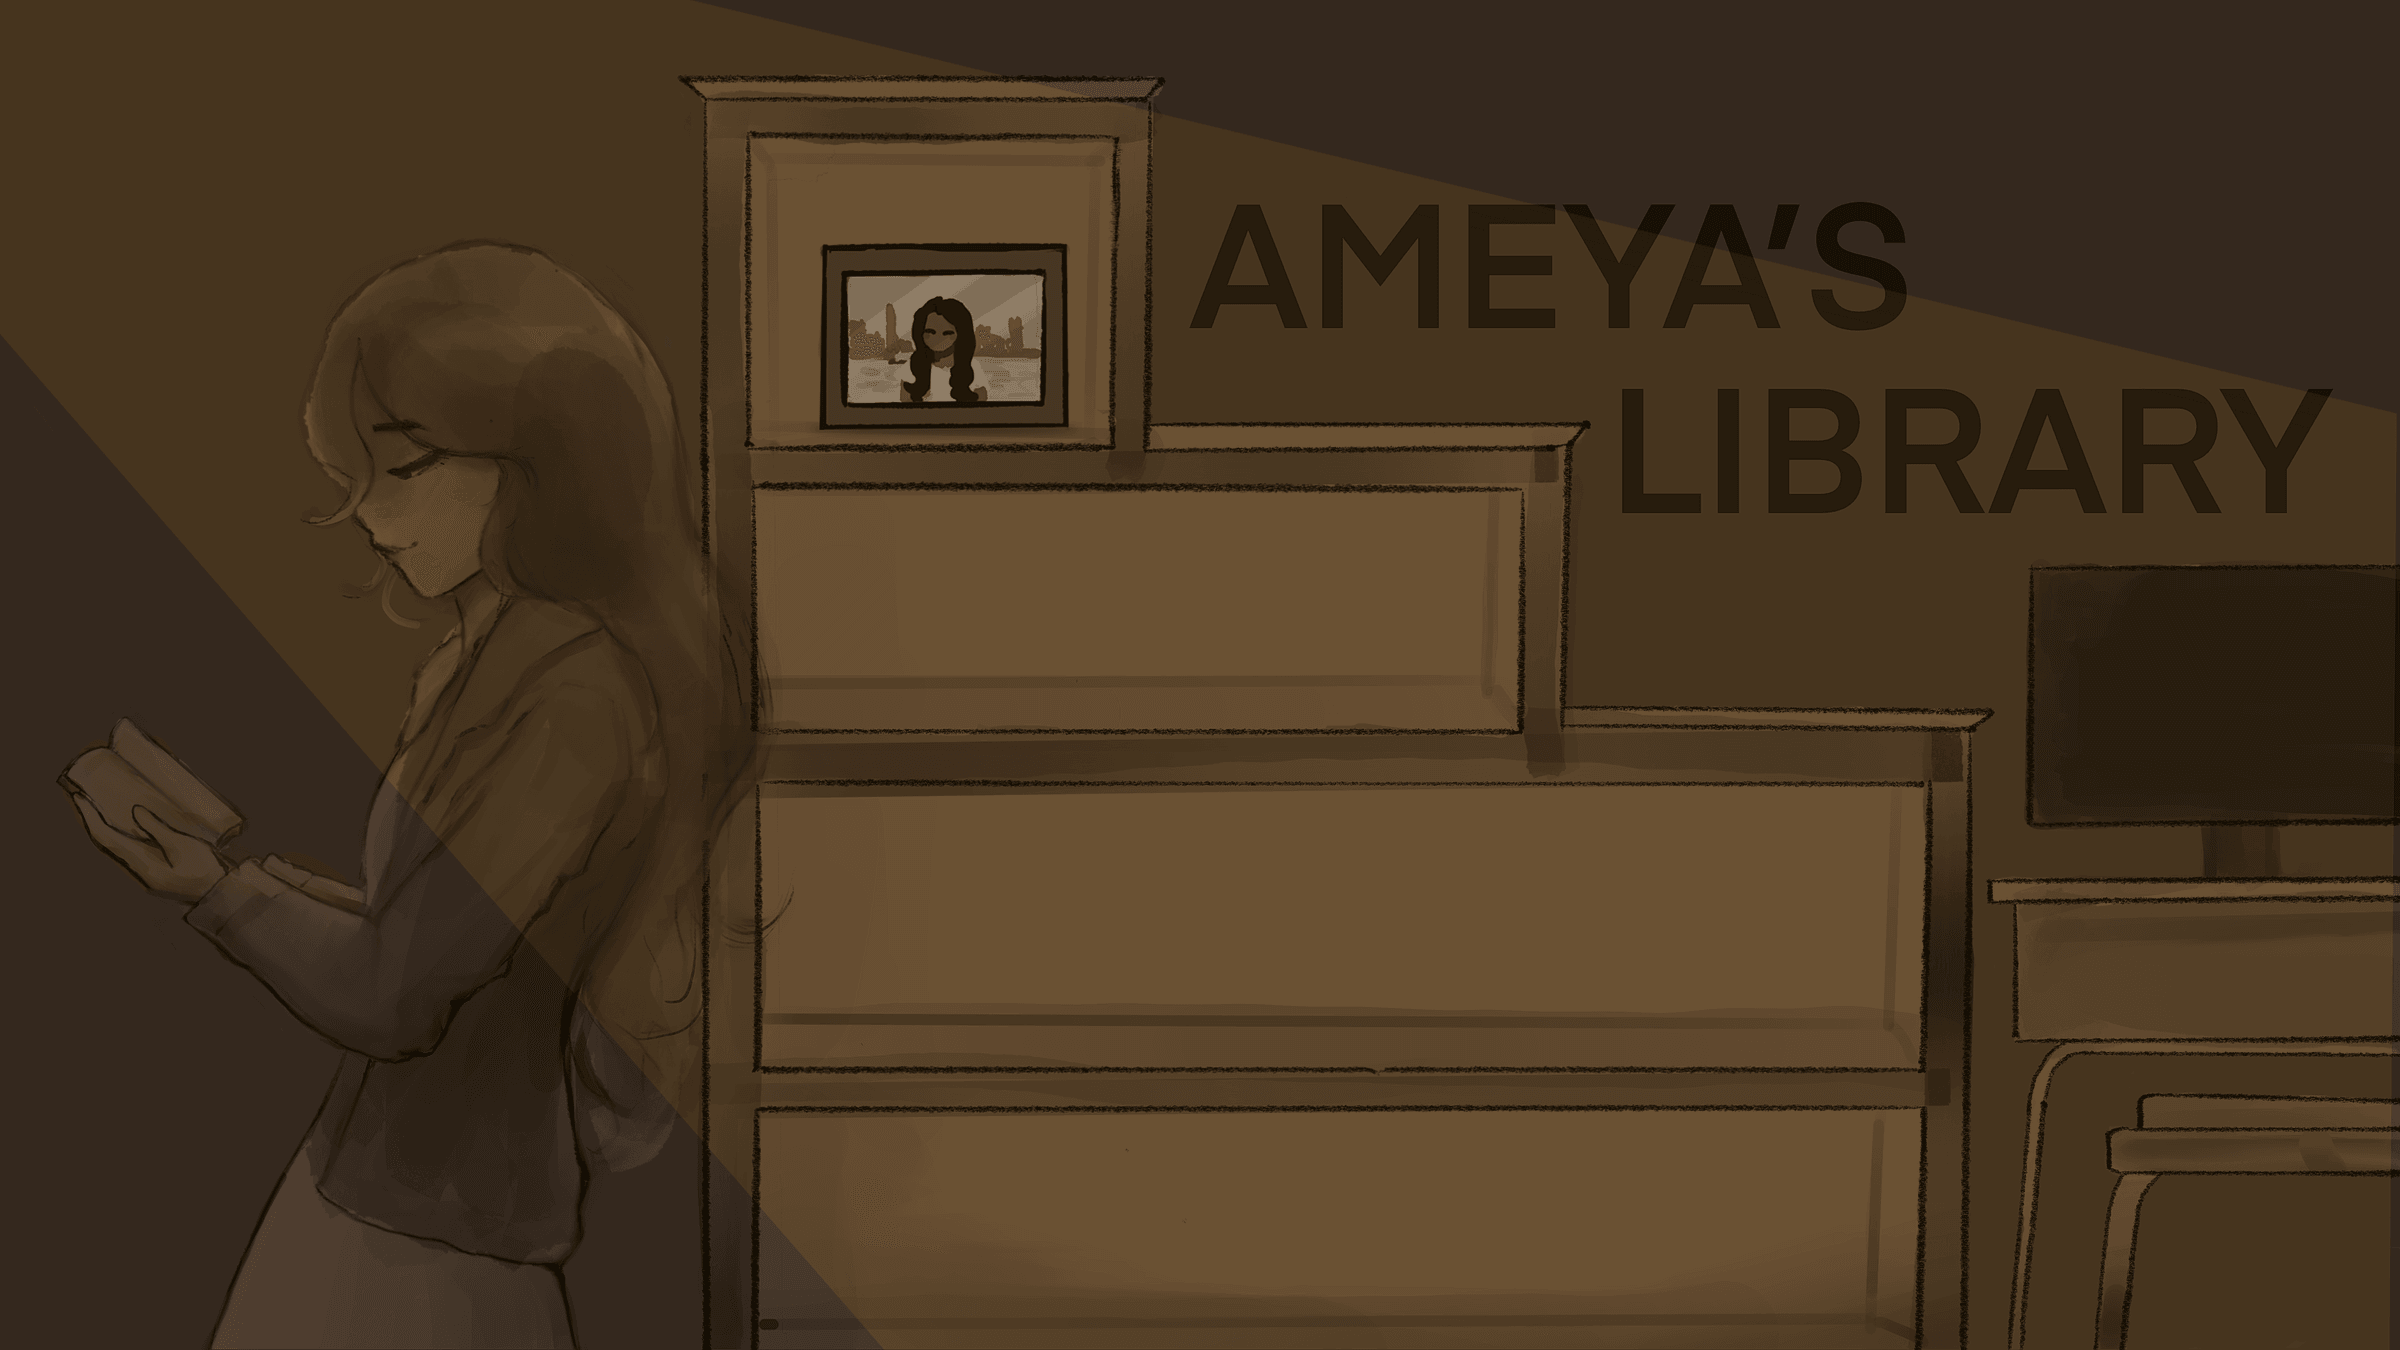
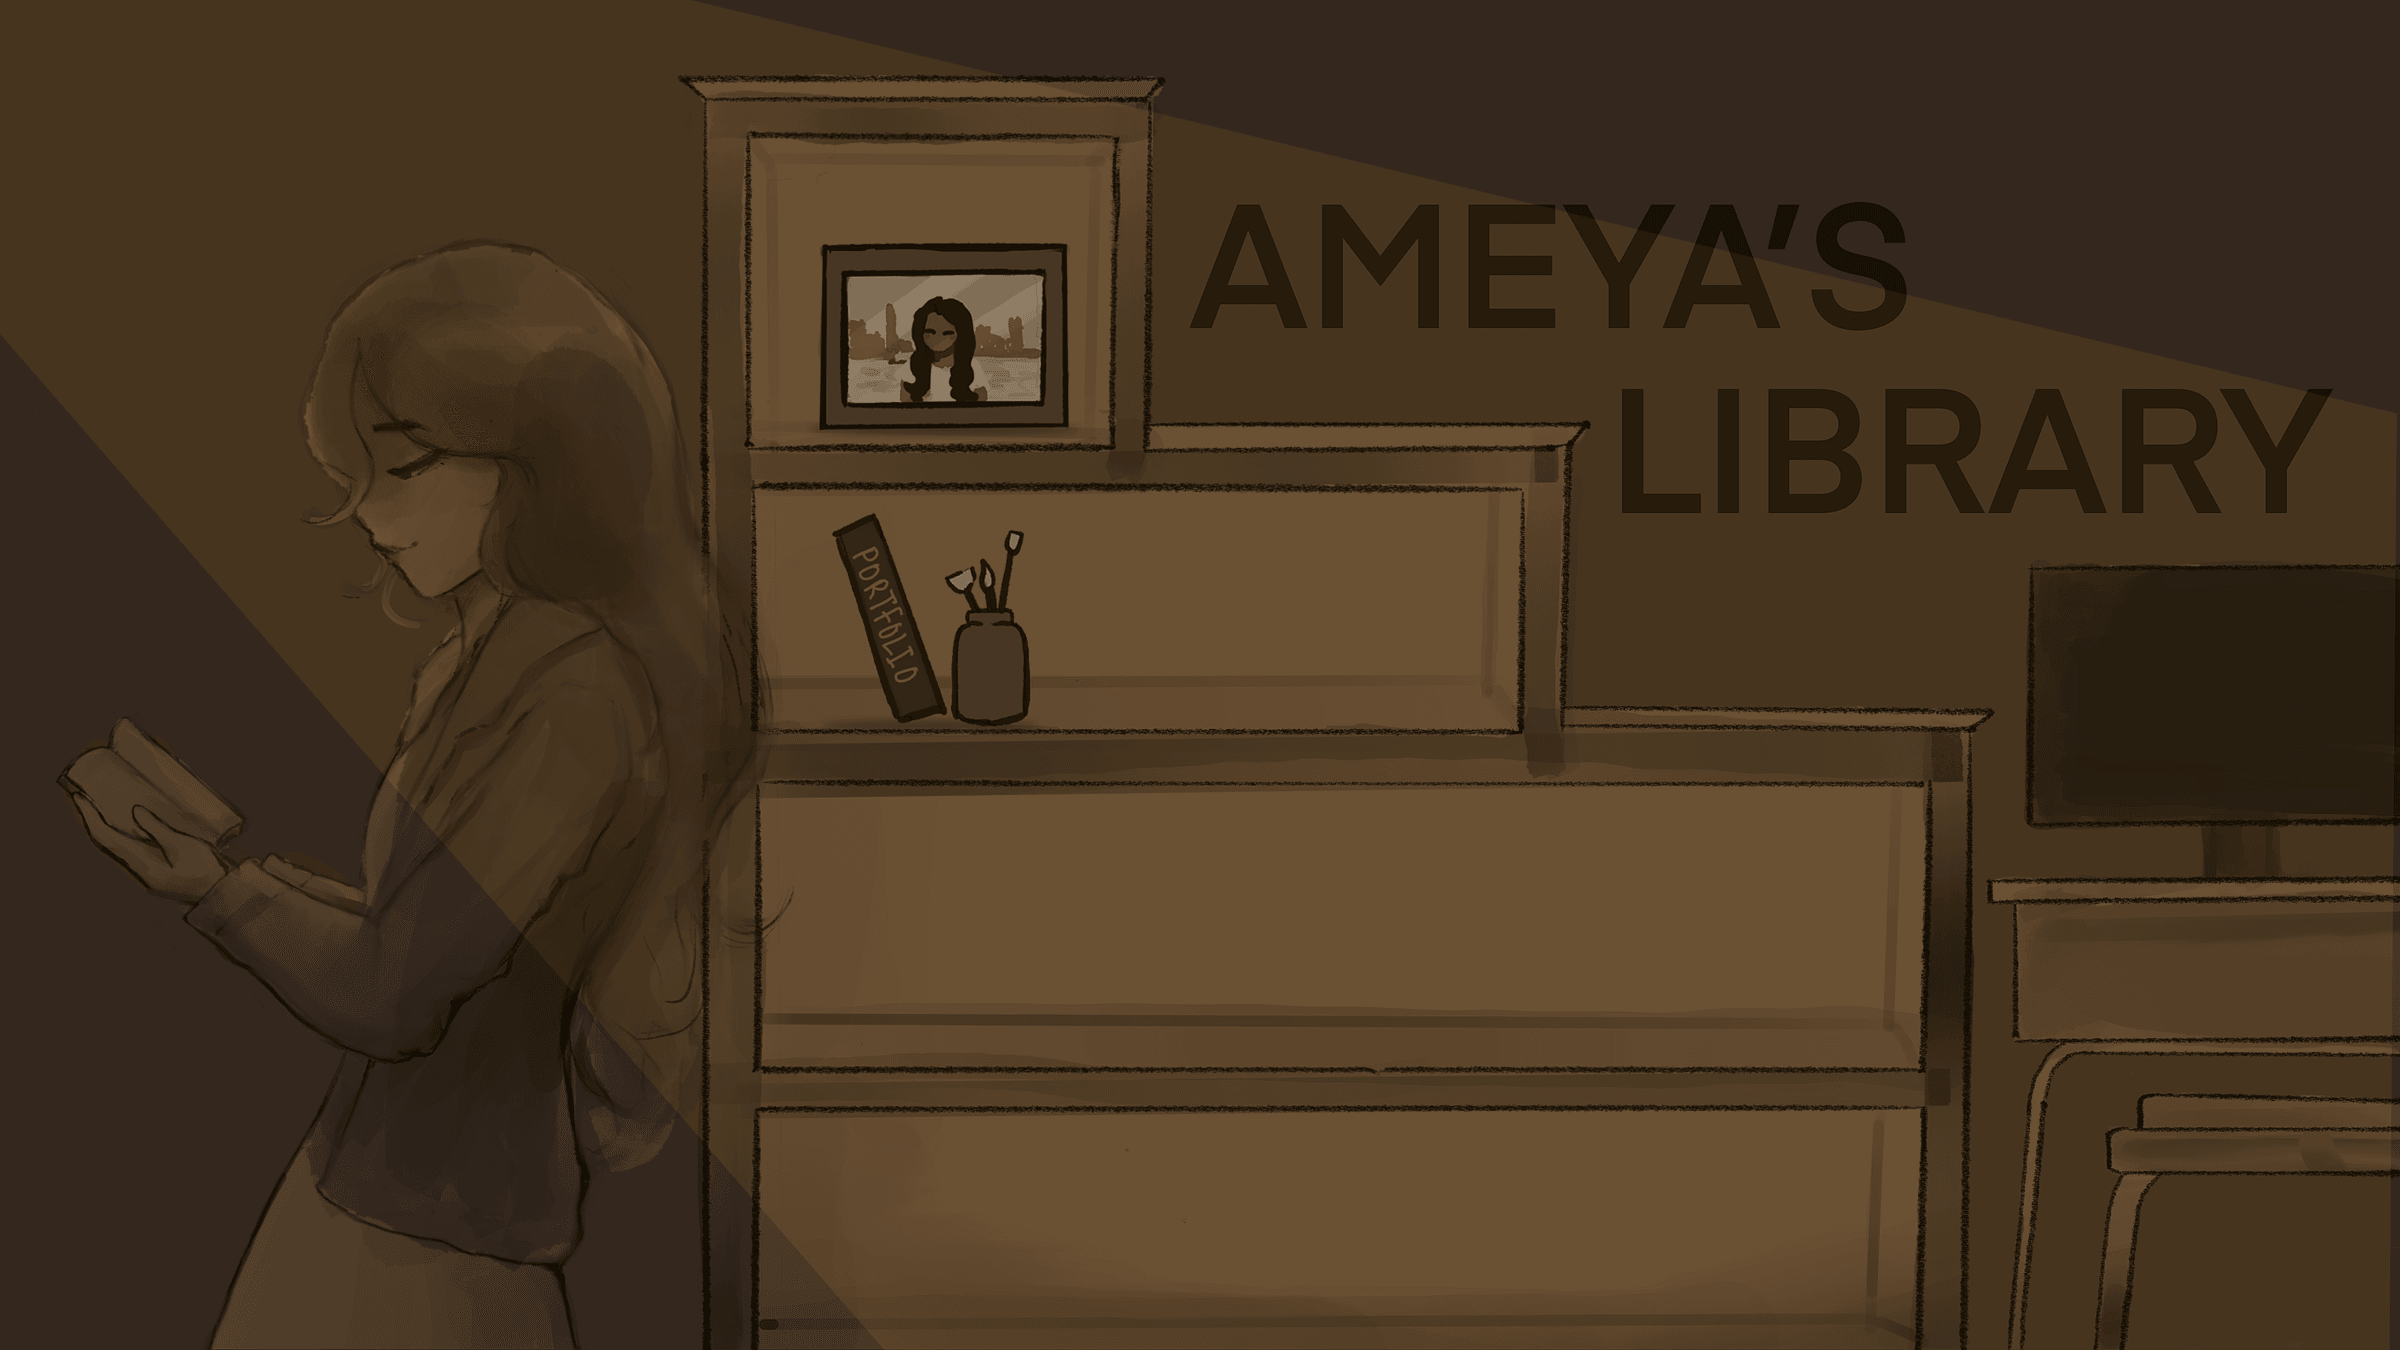
Painting: portfolio and brushes on the second shelf as the fine-art object; footer wording fixed

Changed region(s): [[0.3438, 0.3733, 0.4375, 0.56]]

diff --git a/config.js b/config.js
@@ -75,8 +75,8 @@ const SECTIONS = [
   {
     id: "fine-art",
     label: "Fine art",
-    object: "none yet: the top cubby now holds the About photo. Reachable from the phone list and #fine-art until the painting has a canvas or easel for it.",
-    hotspot: null,
+    object: "the portfolio book and jar of brushes standing on the second shelf",
+    hotspot: { x: 34.4, y: 37.8, w: 8.7, h: 16.2 },
     shape: "rect",
     labelPosition: "right",
     theme: "gallery",
@@ -96,8 +96,8 @@ const SECTIONS = [
   {
     id: "graphic-design",
     label: "Graphic design",
-    object: "second shelf, the long cubby under the frame",
-    hotspot: { x: 31.5, y: 33.4, w: 31.8, h: 20.6 },
+    object: "none yet: the second shelf now holds the fine-art portfolio. Reachable from the phone list and #graphic-design until it has an object.",
+    hotspot: null,
     shape: "rect",
     labelPosition: "right",
     theme: "spread",

diff --git a/index.html b/index.html
@@ -115,7 +115,7 @@
     </section>
   </noscript>
 
-  <footer class="footer">© 2026 Ameya Kohli. All artwork my own.</footer>
+  <footer class="footer">© 2026 Ameya Kohli</footer>
 
   <!-- Plain scripts, in order. config.js declares SECTIONS; app.js reads it. -->
   <script src="config.js"></script>
